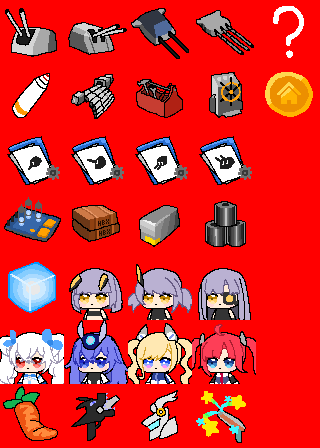
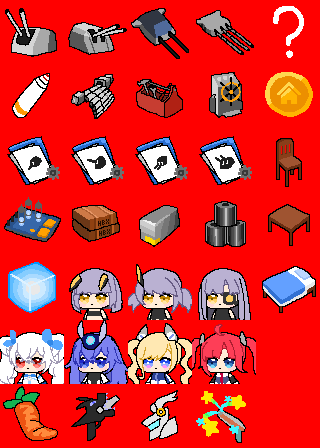
created decoration assets

Changed region(s): [[0.8125, 0.2812, 0.9688, 0.5625], [0.8125, 0.5938, 1.0, 0.7188]]

diff --git a/src/menus/port_menu.py b/src/menus/port_menu.py
@@ -834,9 +834,14 @@ class PortMenu:
             shipgirl.draw(surface, font)
         
         for decoration, pos in DataFiles.save_file["decorations"]:
-            sprite = DataFiles.get_entity_sprite(decoration)
-            rect = sprite.get_rect()
-            rect.center = pos
+            if decoration in DataFiles.sprites["decorations"]:
+                sprite = DataFiles.sprites["decorations"][decoration]
+                rect = sprite.get_rect() # TODO
+                rect.center = pos
+            else:
+                sprite = DataFiles.get_entity_sprite(decoration)
+                rect = sprite.get_rect()
+                rect.center = pos
             surface.blit(sprite, rect)
             pygame.draw.rect(surface, Color.WHITE, rect, width=Box.OUTLINE_WIDTH)
 
